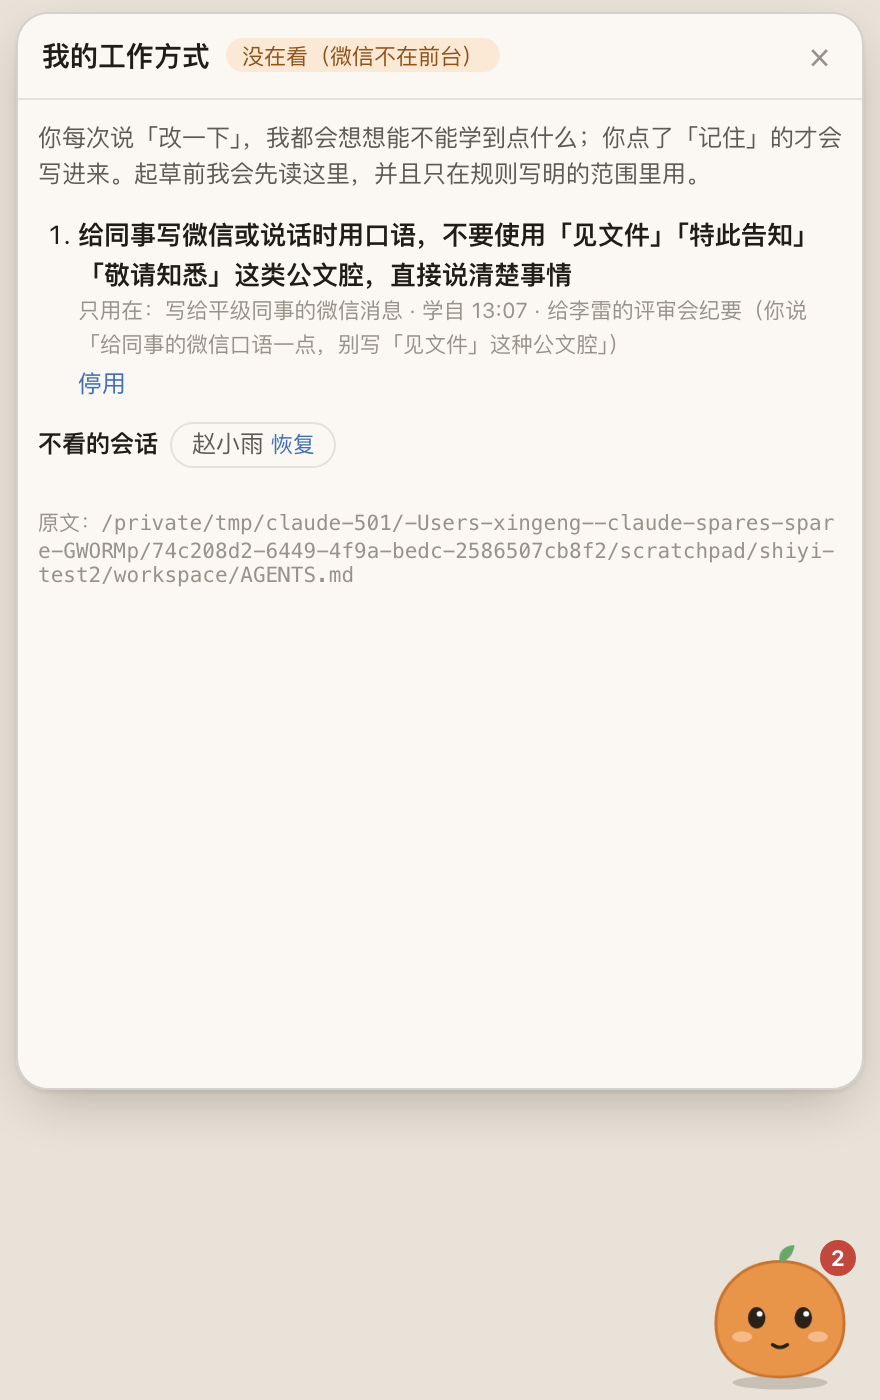
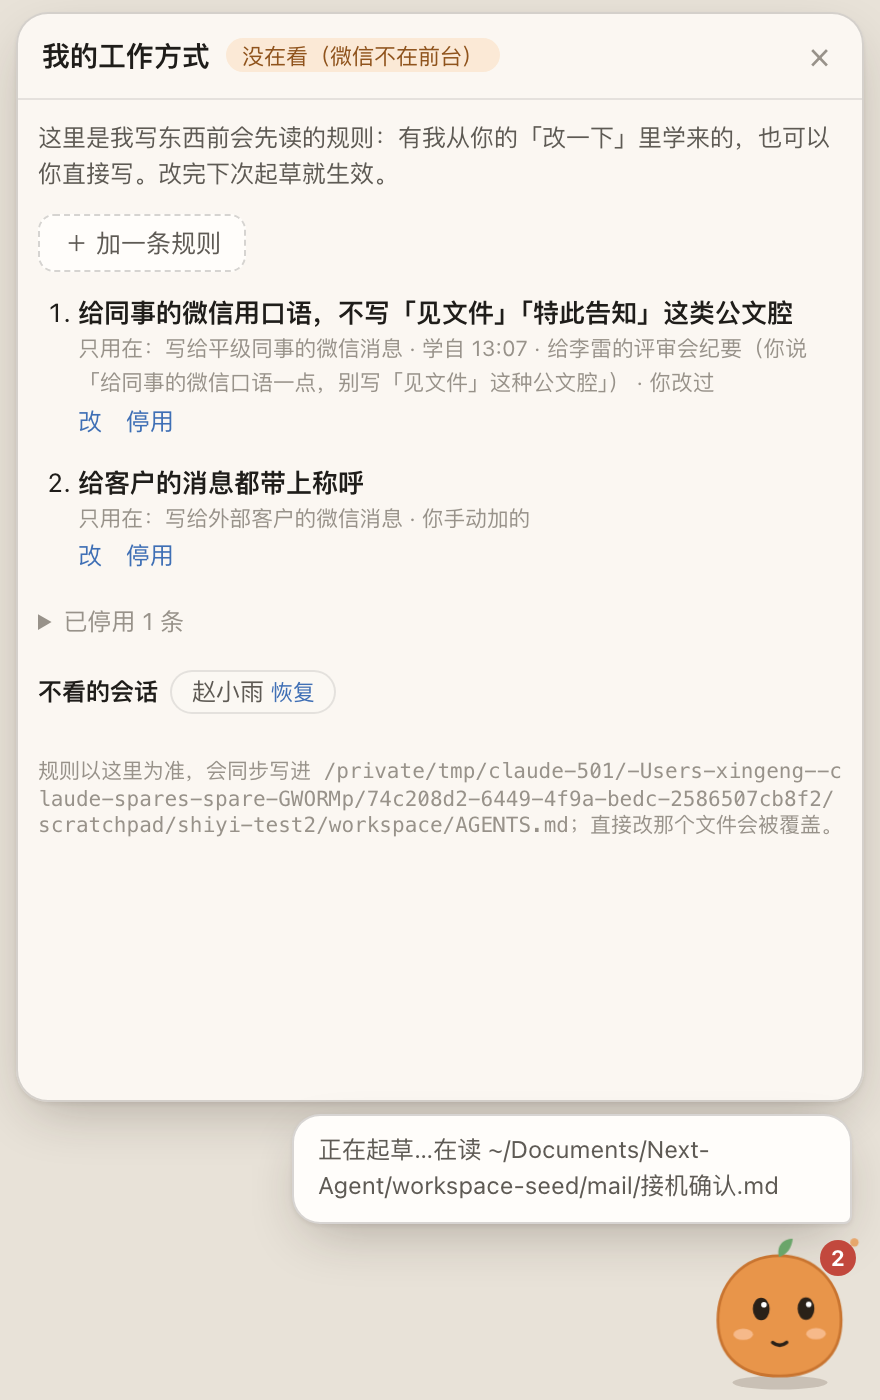
拾遗：「在帮你盯的事」去聊天化 + 「我的工作方式」可编辑
- 「我答应的事」改为「在帮你盯的事」：以要做什么为主，按 今天/明天/之后/没定时间/已完成 分组；
  来源只是小标签（微信 · 会话 / 你交办的），原话折叠；圆圈可直接标记完成
- 可以手动「交给拾遗一件事」：轻量模型解析对象/时间/类型，要交文档的照常起草，要去做的事只盯着
- 规则可改文字和适用范围、可手动新增；停用后保留可重新启用，停用的才可删除
- AGENTS.md 头部注明由拾遗生成、请在桌宠里改

diff --git a/pet/pet.js b/pet/pet.js
@@ -91,7 +91,7 @@ function render() {
     h('button', { onclick: () => { const on = !S.eyes; post({ eyes: on }); act({ type: 'eyes', on }); say(on ? '我睁眼啦，只看微信。' : '好，我闭眼，什么都不看。', 2500, 'quiet') } }, S.eyes ? '闭眼（暂停看）' : '睁眼'),
     canIgnore ? h('button', { onclick: () => { act({ type: 'ignore-conv', conv: S.currentConv }); say(`好，以后不看「${S.currentConv}」，存下的记录也删了。`, 3500, 'quiet') } }, `不看「${short(S.currentConv)}」`) : null,
     h('div', { class: 'sep' }),
-    h('button', { onclick: () => open('today') }, '我答应的事'),
+    h('button', { onclick: () => open('today') }, '在帮你盯的事'),
     h('button', { onclick: () => open('insight') }, '它看到了什么'),
     h('button', { onclick: () => open('book') }, '我的工作方式'),
     h('div', { class: 'sep' }),
@@ -109,7 +109,7 @@ const open = v => { view = view === v ? null : v; render() }
 const short = s => s.length > 8 ? s.slice(0, 8) + '…' : s
 
 function head() {
-  const title = typeof view === 'object' ? view.doc.split('/').pop() : { cards: '找你的事', insight: '它看到了什么', book: '我的工作方式', today: '我答应的事' }[view]
+  const title = typeof view === 'object' ? view.doc.split('/').pop() : { cards: '找你的事', insight: '它看到了什么', book: '我的工作方式', today: '在帮你盯的事' }[view]
   const status = !S.eyes ? '闭眼中' : S.privateApp ? '私密应用在前台，没在看' : S.wechat ? '在看微信' : '没在看（微信不在前台）'
   return h('div', { class: 'head' },
     typeof view === 'object' ? h('button', { class: 'back', onclick: () => { view = 'cards'; render() } }, '‹') : null,
@@ -122,7 +122,7 @@ function body() {
   if (view === 'insight') return insightView()
   if (view === 'book') return bookView()
   if (view === 'today') return todayView()
-  return S.cards.length ? h('div', { class: 'cards' }, S.cards.map(cardView)) : h('div', { class: 'empty' }, '现在没有要找你的事。我在看着微信，你答应别人的事我会记下。')
+  return S.cards.length ? h('div', { class: 'cards' }, S.cards.map(cardView)) : h('div', { class: 'empty' }, '现在没有要找你的事。我在看着微信，你答应别人的事、交给我的事，我都会盯着。')
 }
 
 /* ── 卡片 ── */
@@ -215,23 +215,78 @@ function insightView() {
         h('div', {}, e.text), showTech && e.layer ? h('div', { class: 'cost' }, e.layer + (e.cost ? ' · ' + e.cost : '')) : null)
     })))
 }
+/* 我的工作方式：规则可以改、可以加、停用后可以重新启用 */
 function bookView() {
+  const on = S.rules.filter(r => r.enabled !== false), off = S.rules.filter(r => r.enabled === false)
+  const ruleRow = r => editing?.rule === r.id ? ruleEditor(r) : h('li', { class: r.enabled === false ? 'is-off' : '' },
+    h('b', {}, r.text),
+    h('small', {}, `${r.scope ? '只用在：' + r.scope + ' · ' : '所有场合 · '}${r.learnedFrom === '你手动加的' ? '你手动加的' : '学自 ' + r.learnedFrom}${r.editedAt ? ' · 你改过' : ''}`),
+    h('span', { class: 'row-actions' },
+      h('button', { class: 'link', onclick: () => { editing = { rule: r.id }; render() } }, '改'),
+      r.enabled === false
+        ? [h('button', { class: 'link', onclick: () => act({ type: 'rule-toggle', id: r.id, enabled: true }) }, '重新启用'),
+           h('button', { class: 'link danger', onclick: () => act({ type: 'rule-delete', id: r.id }) }, '删除')]
+        : h('button', { class: 'link', onclick: () => act({ type: 'rule-toggle', id: r.id, enabled: false }) }, '停用')))
   return h('div', { class: 'scroll' },
-    h('p', { class: 'intro' }, '你每次说「改一下」，我都会想想能不能学到点什么；你点了「记住」的才会写进来。起草前我会先读这里，并且只在规则写明的范围里用。'),
-    S.rules.length ? h('ol', { class: 'rules' }, S.rules.map(r => h('li', {}, h('b', {}, r.text), h('small', {}, `${r.scope ? '只用在：' + r.scope + ' · ' : ''}学自 ${r.learnedFrom}`),
-      h('button', { class: 'link', onclick: () => act({ type: 'rule-off', id: r.id }) }, '停用')))) : h('div', { class: 'empty' }, '还没有规则。'),
+    h('p', { class: 'intro' }, '这里是我写东西前会先读的规则：有我从你的「改一下」里学来的，也可以你直接写。改完下次起草就生效。'),
+    editing?.rule === 'new' ? ruleEditor(null) : h('button', { class: 'btn add', onclick: () => { editing = { rule: 'new' }; render() } }, '＋ 加一条规则'),
+    on.length ? h('ol', { class: 'rules' }, on.map(ruleRow)) : editing?.rule === 'new' ? null : h('div', { class: 'empty' }, '还没有规则。你可以直接写一条，比如「给客户的消息都带上称呼」。'),
+    off.length ? h('details', { class: 'off-rules' }, h('summary', {}, `已停用 ${off.length} 条`), h('ol', { class: 'rules' }, off.map(ruleRow))) : null,
     S.ignoreConvs.length ? h('div', { class: 'ignored' }, h('b', {}, '不看的会话'), S.ignoreConvs.map(cv => h('span', { class: 'chip' }, cv, ' ', h('button', { class: 'link', onclick: () => act({ type: 'unignore-conv', conv: cv }) }, '恢复')))) : null,
-    h('p', { class: 'path' }, `原文：${S.home}/workspace/AGENTS.md`))
+    h('p', { class: 'path' }, `规则以这里为准，会同步写进 ${S.home}/workspace/AGENTS.md；直接改那个文件会被覆盖。`))
 }
+
+function ruleEditor(r) {
+  const text = h('textarea', { class: 'reason', placeholder: '规则，用一句话写清楚要怎么做，比如：给客户的消息都带上称呼' })
+  const scope = h('input', { class: 'scope', placeholder: '只用在什么场合（可不填，不填就是所有场合）' })
+  text.value = r?.text ?? ''; scope.value = r?.scope ?? ''
+  setTimeout(() => text.focus(), 30); post({ focus: true })
+  const save = () => {
+    if (!text.value.trim()) return
+    act(r ? { type: 'rule-edit', id: r.id, text: text.value, scope: scope.value } : { type: 'rule-add', text: text.value, scope: scope.value })
+    editing = null
+  }
+  return h('div', { class: 'revise rule-edit' }, text, scope, h('div', { class: 'actions' },
+    h('button', { class: 'btn primary', onclick: save }, r ? '保存' : '加上'),
+    h('button', { class: 'btn', onclick: () => { editing = null; render() } }, '取消')))
+}
+
+/* 在帮你盯的事：以「要做什么」为主，按时间分组；来源只是一个小标签，原话折叠 */
 function todayView() {
-  const list = [...S.commitments].filter(c => c.status !== 'dropped').reverse()
+  const all = S.commitments.filter(c => c.status !== 'dropped')
+  const day = d => { const x = new Date(d); x.setHours(0, 0, 0, 0); return x.getTime() }
+  const today = day(Date.now()), tomorrow = today + 86400_000
+  const groupOf = c => c.status === 'done' ? 'done' : !c.due ? 'none' : day(c.due) <= today ? 'today' : day(c.due) === tomorrow ? 'tomorrow' : 'later'
+  const GROUPS = [['today', '今天'], ['tomorrow', '明天'], ['later', '之后'], ['none', '没定时间'], ['done', '已完成']]
+  const item = c => h('li', { class: c.status === 'done' ? 'is-done' : '' },
+    h('button', { class: 'dot', title: c.status === 'done' ? '已完成' : '标记完成', onclick: () => c.status !== 'done' && act({ type: 'task-done', commitmentId: c.id }) }, c.status === 'done' ? '✓' : ''),
+    h('span', {},
+      h('b', {}, c.todo || c.what),
+      h('small', {}, [c.to && c.source !== 'manual' ? `给${c.to}` : '', c.dueText, STATUS[c.status] + (c.doneAt ? ' ' + c.doneAt : '')].filter(Boolean).join(' · ')),
+      h('details', { class: 'src-detail' },
+        h('summary', {}, h('span', { class: `src-tag ${c.source === 'manual' ? 'manual' : 'wechat'}` }, c.source === 'manual' ? '你交办的' : `微信 · ${short(c.conv)}`)),
+        h('small', { class: 'quote' }, c.source === 'manual' ? `「${c.quote}」` : c.request ? `${c.conv}：「${c.request}」→ 你：「${c.quote}」` : `你：「${c.quote}」`))),
+    ['ready', 'copied'].includes(c.status) ? h('button', { class: 'link', onclick: () => { act({ type: 'open-card', commitmentId: c.id }); view = 'cards' } }, '看草稿') : null)
+  const sections = GROUPS.map(([g, label]) => {
+    const list = all.filter(c => groupOf(c) === g).reverse()
+    if (!list.length) return null
+    const body = h('ul', { class: 'wrap' }, list.map(item))
+    return g === 'done' ? h('details', { class: 'group' }, h('summary', {}, `${label} ${list.length}`), body) : h('section', { class: 'group' }, h('h4', {}, `${label} ${list.length}`), body)
+  }).filter(Boolean)
   return h('div', { class: 'scroll' },
-    list.length ? h('ul', { class: 'wrap' }, list.map(c => h('li', { class: c.status === 'done' ? 'is-done' : '' },
-      h('span', { class: 'dot' }, c.status === 'done' ? '✓' : ''),
-      h('span', {}, h('b', {}, c.todo || `${c.to} · ${c.what}`), h('small', {}, `${c.dueText || '没说时间'} · ${STATUS[c.status]}${c.doneAt ? ' · ' + c.doneAt : ''}`), h('small', { class: 'quote' }, c.request ? `${c.conv}：「${c.request}」→ 你：「${c.quote}」` : `你对${c.conv}说：「${c.quote}」`)),
-      ['ready', 'copied'].includes(c.status) ? h('button', { class: 'link', onclick: () => { act({ type: 'open-card', commitmentId: c.id }); view = 'cards' } }, '看看') : null)))
-      : h('div', { class: 'empty' }, '还没有记下的承诺。在微信里答应别人点什么试试，比如「明天上午发你周报」。'),
+    editing?.task ? taskEditor() : h('button', { class: 'btn add', onclick: () => { editing = { task: true }; render() } }, '＋ 交给拾遗一件事'),
+    sections.length ? sections : h('div', { class: 'empty' }, '还没有在盯的事。你在微信里答应别人什么（比如「明天上午发你周报」），或者直接交给我一件事，都会出现在这里。'),
     h('div', { class: 'actions' }, h('button', { class: 'btn', onclick: () => { act({ type: 'wrapup' }); view = 'cards' } }, '现在收个尾')))
+}
+
+function taskEditor() {
+  const text = h('textarea', { class: 'reason', placeholder: '比如：周五前把 Q4 规划发给王总 / 明早提醒我给妈妈打电话' })
+  setTimeout(() => text.focus(), 30); post({ focus: true })
+  const save = () => { if (!text.value.trim()) return; act({ type: 'add-task', text: text.value }); editing = null; say('收到，我来盯着。', 2500, 'quiet') }
+  text.addEventListener('keydown', e => { if (e.key === 'Enter' && (e.metaKey || e.ctrlKey)) save() })
+  return h('div', { class: 'revise' }, text, h('div', { class: 'actions' },
+    h('button', { class: 'btn primary', onclick: save }, '交给你'),
+    h('button', { class: 'btn', onclick: () => { editing = null; render() } }, '取消')))
 }
 
 function docView(path) {

diff --git a/pet/pet.css b/pet/pet.css
@@ -137,3 +137,22 @@ button { font: inherit; color: inherit; cursor: pointer; }
 .ignored { display: flex; flex-wrap: wrap; gap: 6px; align-items: center; font-size: 12px; }
 .ignored .link { margin: 0; font-size: 11px; }
 .v-suspect { background: #f3ecd9; color: #8a6a1c; } .v-draft { background: var(--amber-soft); color: var(--amber-ink); } .v-done { background: var(--ok-soft); color: var(--ok); }
+/* 在帮你盯的事 / 我的工作方式 */
+.btn.add { align-self: flex-start; border-style: dashed; color: var(--ink-2); }
+.group h4, .group summary { margin: 2px 0 6px; font-size: 11.5px; font-weight: 600; color: var(--ink-3); letter-spacing: .5px; cursor: default; }
+.group summary { cursor: pointer; }
+button.dot { padding: 0; background: none; cursor: pointer; }
+button.dot:hover { background: var(--amber-soft); }
+.src-detail { margin-top: 2px; }
+.src-detail summary { list-style: none; cursor: pointer; display: inline-block; }
+.src-detail summary::-webkit-details-marker { display: none; }
+.src-tag { font-size: 10.5px; border-radius: 5px; padding: 0 6px; }
+.src-tag.wechat { background: #e3f1e8; color: #2f7a4f; } .src-tag.manual { background: var(--blue-soft); color: var(--blue); }
+.rules li { position: relative; }
+.rules li.is-off b { color: var(--ink-3); text-decoration: line-through; font-weight: 500; }
+.row-actions { display: flex; gap: 12px; margin-top: 2px; }
+.row-actions .link { margin: 0; }
+.link.danger { color: var(--err); }
+.off-rules summary { font-size: 12px; color: var(--ink-3); cursor: pointer; margin: 4px 0; }
+.scope { border: 1px solid var(--line-2); border-radius: 8px; padding: 6px 8px; font: inherit; font-size: 12px; outline: none; }
+.scope:focus { border-color: var(--amber); }
